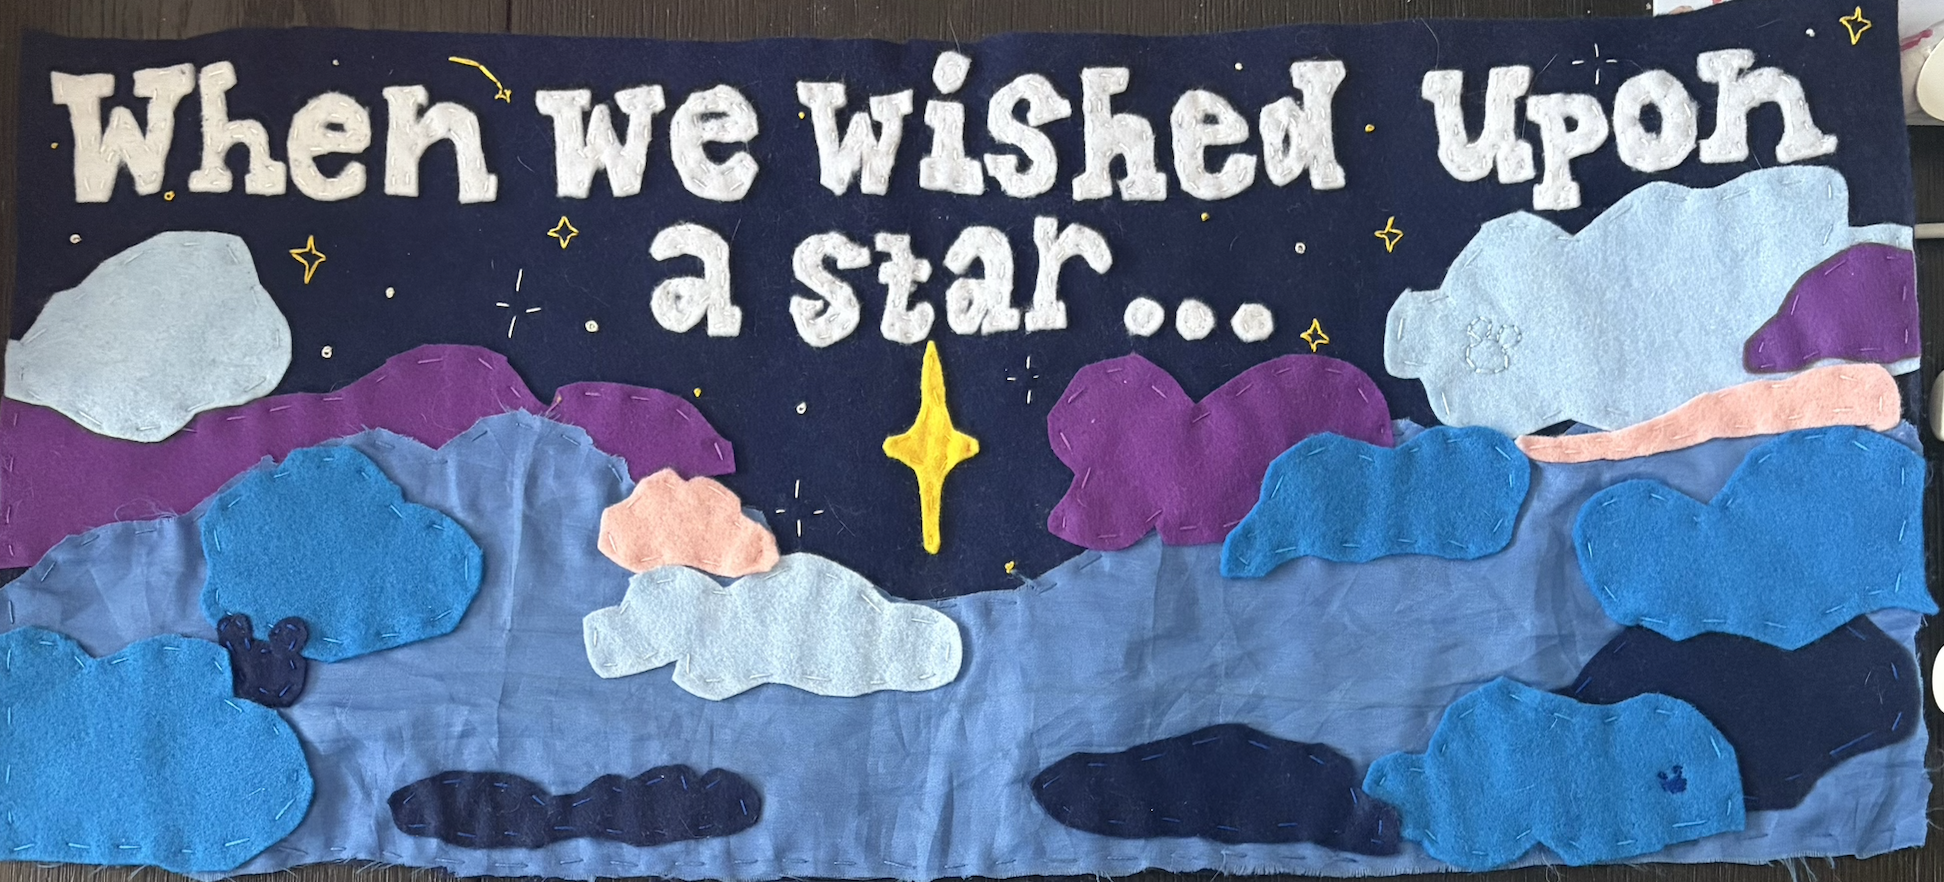
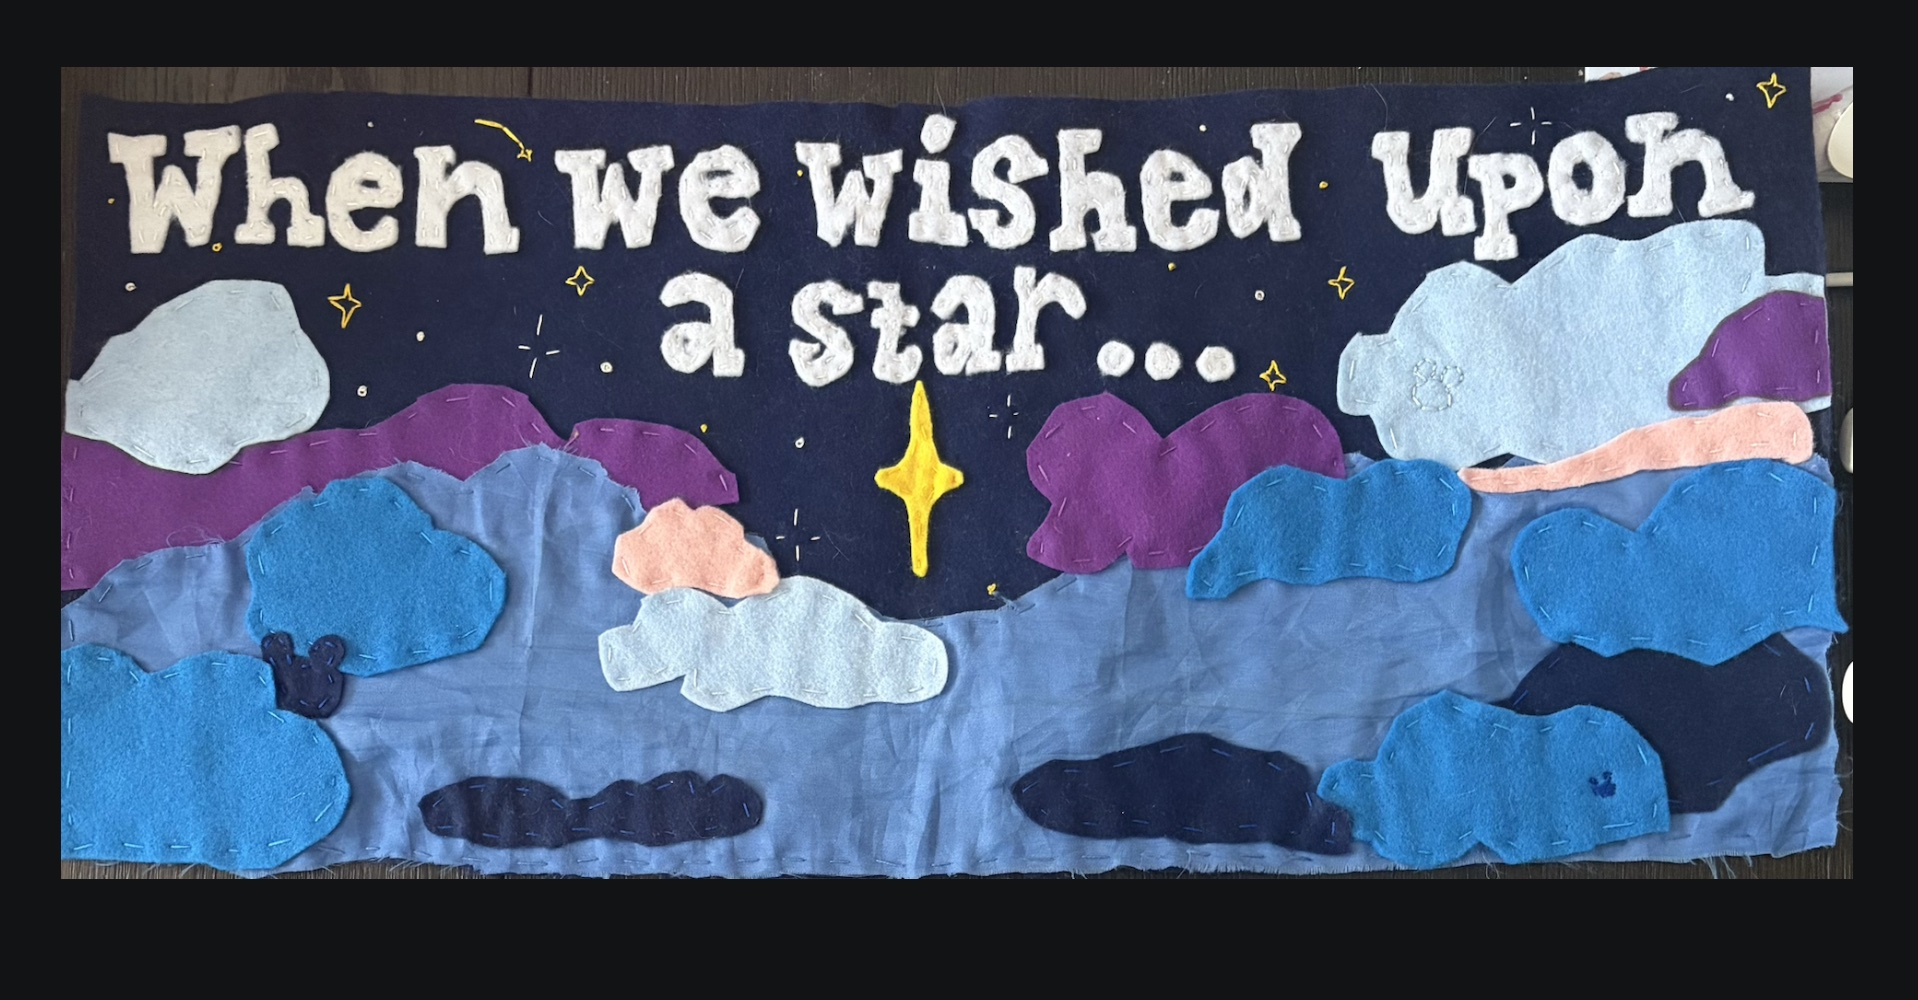
Updates

diff --git a/index.html b/index.html
@@ -1,5 +1,6 @@
 <!DOCTYPE html>
 <html lang="en">
+
 <head>
   <meta charset="UTF-8">
   <meta name="viewport" content="width=device-width, initial-scale=1.0">
@@ -8,8 +9,11 @@
   <link rel="stylesheet" href="css/style.css">
   <link rel="preconnect" href="https://fonts.googleapis.com">
   <link rel="preconnect" href="https://fonts.gstatic.com" crossorigin>
-  <link href="https://fonts.googleapis.com/css2?family=Cormorant+Garamond:ital,wght@0,400;0,600;1,400&family=DM+Sans:wght@400;500;600&display=swap" rel="stylesheet">
+  <link
+    href="https://fonts.googleapis.com/css2?family=Cormorant+Garamond:ital,wght@0,400;0,600;1,400&family=DM+Sans:wght@400;500;600&display=swap"
+    rel="stylesheet">
 </head>
+
 <body>
   <header class="site-header">
     <div class="container header-inner">
@@ -31,7 +35,8 @@
     <section class="hero">
       <div class="container">
         <h1>Available Works</h1>
-        <p class="hero-subtitle" id="gallery-subtitle">Tap any piece to view details, photos, and pricing. You can order any of these pieces as is, customize, or work with me to commission a new piece.</p>
+        <p class="hero-subtitle" id="gallery-subtitle">Tap any piece to view details, photos, and pricing. You can order
+          any of these pieces as is, customize, or work with me to commission a new piece.</p>
       </div>
     </section>
 
@@ -41,10 +46,10 @@
           <button class="filter-button active" type="button" data-filter="all">All</button>
           <button class="filter-button" type="button" data-filter="card">Cards</button>
           <button class="filter-button" type="button" data-filter="felt-piece">Felt</button>
-                    <button class="filter-button" type="button" data-filter="paper">Paper</button>
+          <button class="filter-button" type="button" data-filter="paper">Paper</button>
 
-           <button class="filter-button" type="button" data-filter="print">Prints</button>
-                      <button class="filter-button" type="button" data-filter="commission">Commissions</button>
+          <button class="filter-button" type="button" data-filter="print">Prints</button>
+          <button class="filter-button" type="button" data-filter="commission">Commissions</button>
 
         </div>
         <div class="gallery-grid" id="gallery-grid">
@@ -61,4 +66,5 @@
   <script src="js/site.js"></script>
   <script src="js/gallery.js"></script>
 </body>
+
 </html>
